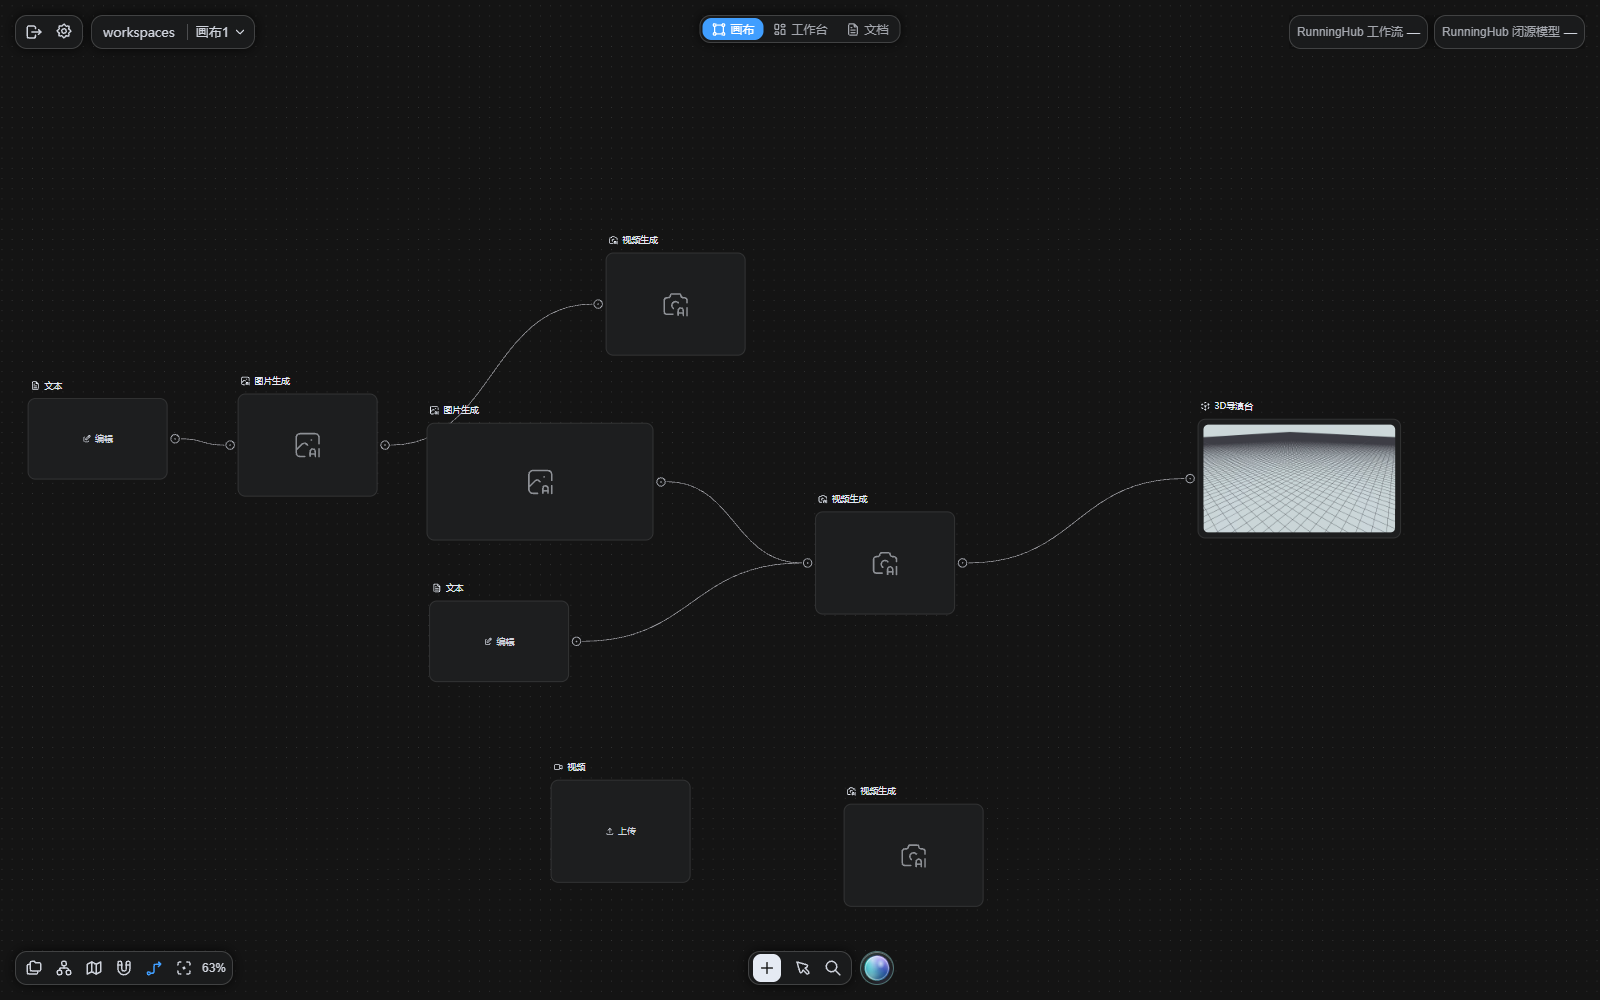
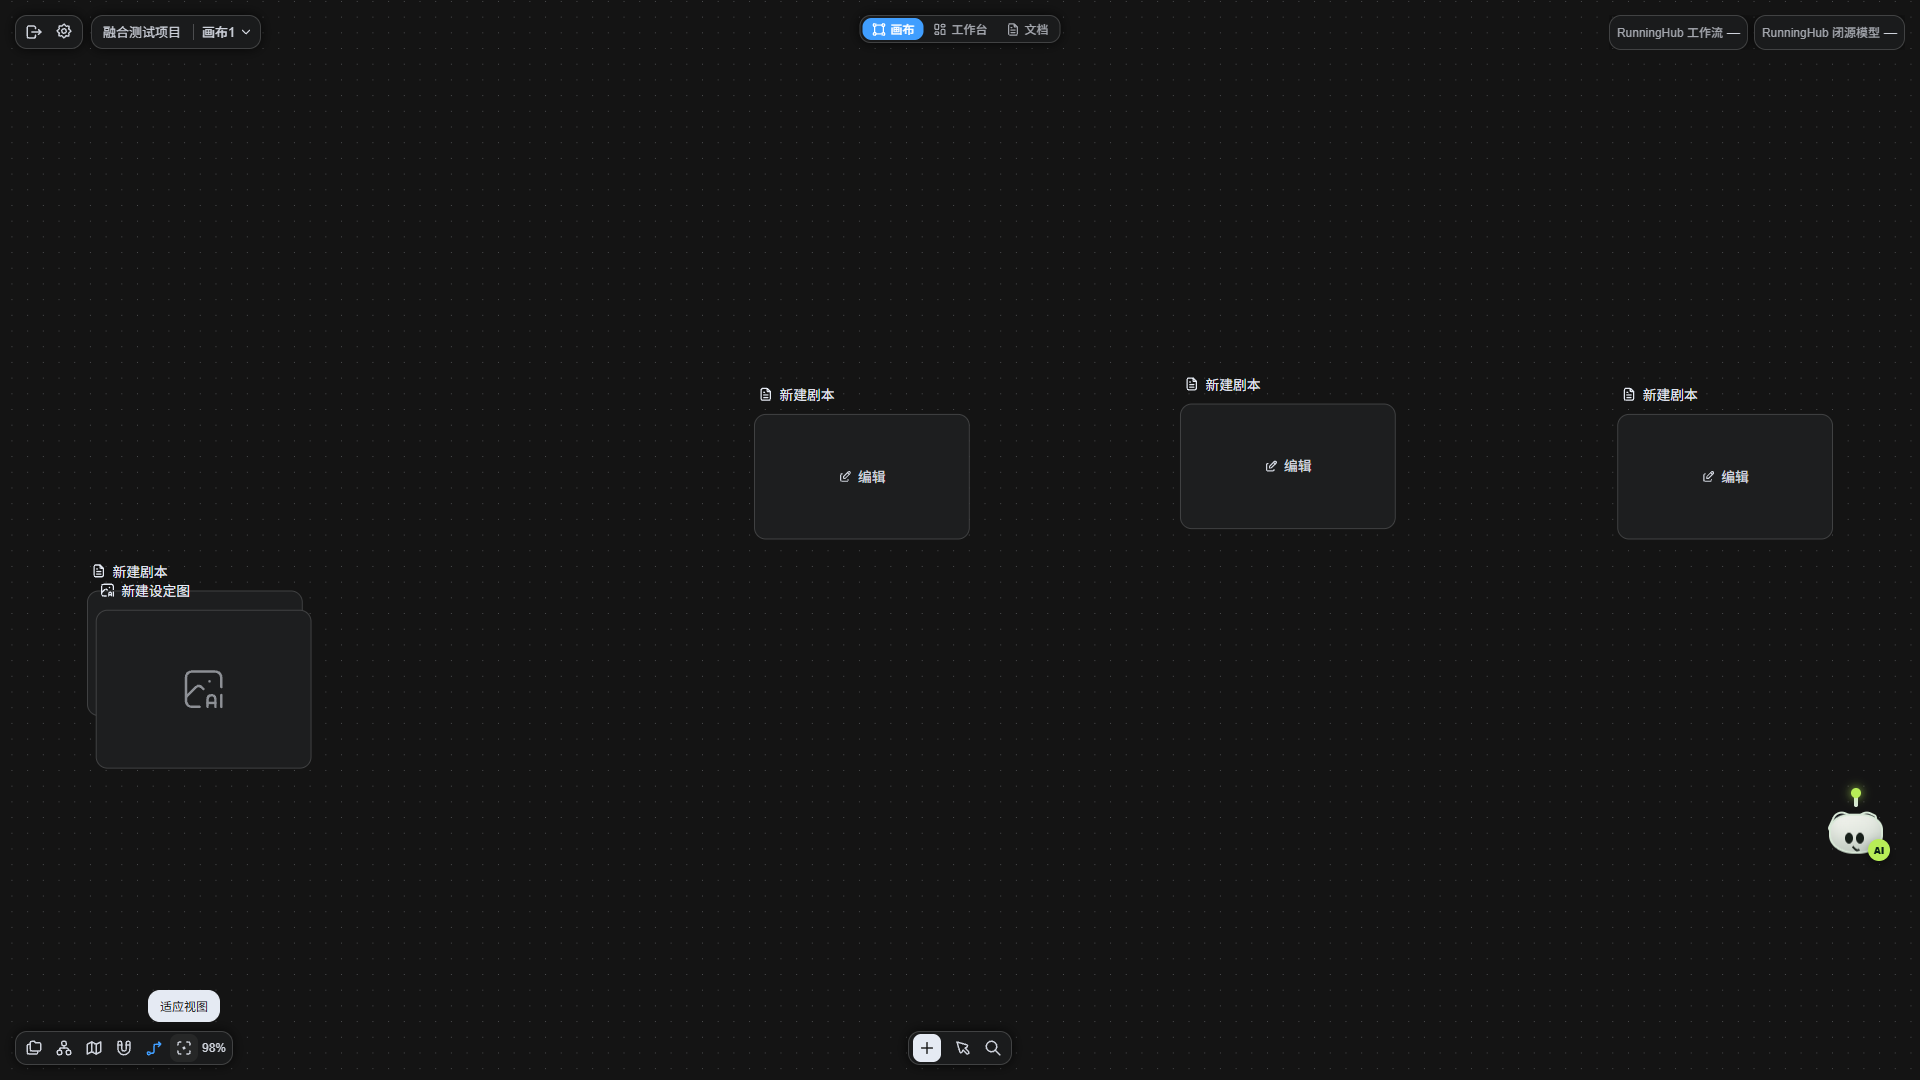
docs: refresh bilingual README screenshots

diff --git a/README.en.md b/README.en.md
@@ -43,36 +43,37 @@ Start with a single sentence, open an existing workspace, or import a legacy Sol
 
 ![SoloDrama project home](./docs/images/solodrama/home.png)
 
-### Unified Workbench
-
-The workbench organizes script analysis, asset extraction, storyboard design, and post-production while reading existing canvas and document sources.
-
-![SoloDrama unified workbench](./docs/images/solodrama/workbench.png)
-
 ### Infinite Canvas
 
-Text, image assets, image generation, video assets, video generation, audio generation, and the 3D director stage can be combined and connected on one canvas.
+Text, images, video, audio, generation nodes, and the 3D director stage can be combined on one canvas.
 
 ![SoloDrama infinite canvas](./docs/images/solodrama/canvas.png)
 
-### Media Models
+### Script Authoring and Analysis
 
-Local ComfyUI, cloud ComfyUI, RunningHub, CompShare, and TTS providers are managed together in the media model settings.
+Enter text directly, upload a long document, detect chapters, segment the source, and analyze the structured result.
 
-![SoloDrama media models](./docs/images/solodrama/mediaModels.png)
+![SoloDrama script authoring and analysis](./docs/images/solodrama/scriptStudio.png)
 
-### Language Models
+### Characters, Locations, and Intelligent Voice Design
 
-Supports OpenCode Go, Command Code, DeepSeek, custom OpenAI-compatible services, and local models.
+Assets use a list-and-designer layout. Voice design runs through the existing media task system and is bound directly to a character.
 
-![SoloDrama language models](./docs/images/solodrama/languageModels.png)
+![SoloDrama character and location designer](./docs/images/solodrama/assetStudio.png)
 
-### Creative Plugins
+![SoloDrama intelligent voice design](./docs/images/solodrama/voiceDesigner.png)
 
-Built-in plugins include project budgets, Jianying drafts, cover design, pipeline rendering, workspace files, and web search.
+### Storyboard, Prompts, and Takes
 
-![SoloDrama creative plugins](./docs/images/solodrama/plugins.png)
+The storyboard workspace organizes references, visual descriptions, video prompts, helper images, tasks, and Take versions.
 
+![SoloDrama storyboard and Takes](./docs/images/solodrama/shotStudio.png)
+
+### Narration, Timeline, and Final Video
+
+The timeline supports official Takes, narration, subtitles, Remotion or pre-rendered clips, final rendering, and Jianying draft export.
+
+![SoloDrama timeline and final video](./docs/images/solodrama/timelineStudio.png)
 ## Core Capabilities
 
 ### Script and Structured Understanding

diff --git a/README.md b/README.md
@@ -43,36 +43,37 @@ SoloDrama 是一套面向竖屏短剧、漫剧和连续内容生产的 AI 创作
 
 ![SoloDrama 项目首页](./docs/images/solodrama/home.png)
 
-### 统一工作台
-
-工作台按剧本解析、提取资产、设计分镜和旁白成片组织项目，并读取画布和文档中的现有来源。
-
-![SoloDrama 统一工作台](./docs/images/solodrama/workbench.png)
-
 ### 无限画布
 
-文本、图片素材、图片生成、视频素材、视频生成、音频生成和 3D 导演台可以在同一张画布中组合连线。
+文本、图片、视频、音频、生成节点和 3D 导演台可以在同一张画布中组合。
 
 ![SoloDrama 无限画布](./docs/images/solodrama/canvas.png)
 
-### 媒体模型
+### 剧本编制与解析
 
-本地 ComfyUI、云端 ComfyUI、RunningHub、优云智算和 TTS 在媒体模型页统一管理。
+支持直接输入、上传长文、章节识别、切段和结构化解析。
 
-![SoloDrama 媒体模型](./docs/images/solodrama/mediaModels.png)
+![SoloDrama 剧本编制与解析](./docs/images/solodrama/scriptStudio.png)
 
-### 文本模型
+### 角色、场景与智能音色
 
-支持 OpenCode Go、Command Code、DeepSeek、自定义 OpenAI 兼容服务和本地模型。
+角色、场景和道具使用左侧资产列表 + 右侧设计器，音色设计与真实 TTS 任务直接绑定到角色。
 
-![SoloDrama 文本模型](./docs/images/solodrama/languageModels.png)
+![SoloDrama 角色与场景](./docs/images/solodrama/assetStudio.png)
 
-### 创作插件
+![SoloDrama 智能音色设计](./docs/images/solodrama/voiceDesigner.png)
 
-内置项目预算、剪映草稿、封面设计、流水线出片、工作区文件和联网搜索等插件。
+### 分镜、提示词与 Take
 
-![SoloDrama 创作插件](./docs/images/solodrama/plugins.png)
+分镜工作区统一组织参考素材、画面描述、视频提示词、辅助图、任务和 Take 版本。
 
+![SoloDrama 分镜与 Take](./docs/images/solodrama/shotStudio.png)
+
+### 旁白、时间轴与成片
+
+时间轴支持正式 Take、旁白、字幕、Remotion/预渲染片段、成片导出和剪映草稿。
+
+![SoloDrama 时间轴与成片](./docs/images/solodrama/timelineStudio.png)
 ## 核心能力
 
 ### 剧本与结构化理解
